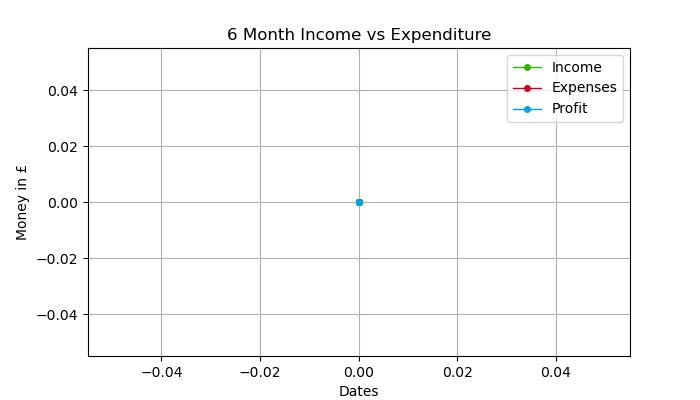
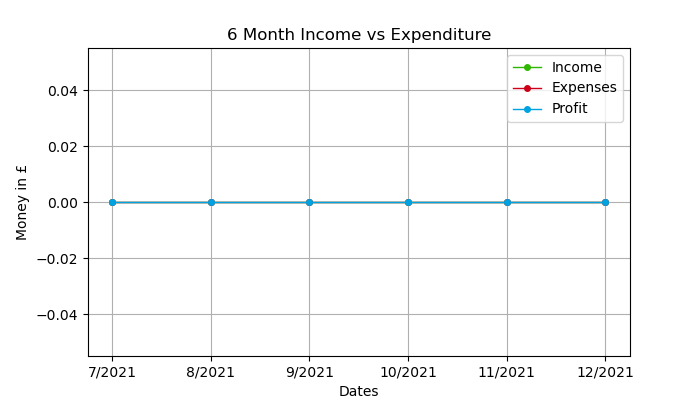
fiexed home page again

Changed region(s): [[0.12, 0.9, 0.9, 0.96], [0.15, 0.48, 0.87, 0.51]]

diff --git a/main.py b/main.py
@@ -1033,17 +1033,19 @@ def homePage():
         dictOfDates[key] = 0
     orderedListOfListedDates = orderListOfListedDates(listOfListedDates)
     openDatabase()
-    howManyUnitsMonths = 0 
+    howManyUnits = 0 
+    unitMonths = 0
     for i in range(len(unitsInfo)):
-        howManyUnitsMonths = howManyUnitsMonths + 1
+        howManyUnits = howManyUnits + 1
         scrambledUnitID = unitsInfo[i][0]
         unit_MonthlyInfo = cursor.execute("SELECT year, month FROM units_Monthly WHERE unit_ID = '" + scrambledUnitID + "'").fetchall()
         for x in range(len(orderedListOfListedDates)):
+            unitMonths = unitMonths + 1
             susValue = cursor.execute("SELECT suspected_Property_Value FROM units_Monthly WHERE unit_ID = '" + scrambledUnitID + "' AND year = '" + scramble(orderedListOfListedDates[i][1]) + "' AND month = '" + scramble(orderedListOfListedDates[i][0]) + "'").fetchall()
             if len(susValue) != 0:
                 dictOfDates[(orderedListOfListedDates[x][0] + "/" + orderedListOfListedDates[x][1])] = dictOfDates[(orderedListOfListedDates[x][0] + "/" + orderedListOfListedDates[x][1])] + susValue[0][0]
     closeDatabase()
-    if howManyUnitsMonths != 0:
+    if howManyUnits != 0 and unitMonths != 0:
         firstMonth = orderedListOfListedDates[0][0] + "/" +  orderedListOfListedDates[0][1]
         lastMonth = orderedListOfListedDates[len(orderedListOfListedDates) - 1][0] + "/" +  orderedListOfListedDates[len(orderedListOfListedDates) - 1][1]
         yValuesSuspropertyValues = list(dictOfDates.values())
@@ -1626,6 +1628,7 @@ def propertiesPage():
     meanIncome = 0
     meanExpenses = 0
     meanProfit = 0
+    meanProfitMargin = 0
 
     openDatabase()
 
@@ -2022,7 +2025,7 @@ def tenantsPage():
     primarytenantCount = 0
     totalTenantCount = 0
     totalScore = 0
-    averageScore = 'N/A'
+    averageScore = 0
     totalRent = 0
     occupyingPrimaryTenants = 0
     occupyingTotalTenants = 0
@@ -3629,6 +3632,7 @@ def monthlyAdditionsPage(unitID):
     openDatabase()
     unitInfoDataD = cursor.execute("SELECT month, year FROM units_Monthly WHERE unit_ID = '" + scramble(current_unit_ID) + "'")
     unitInfoData = unitInfoDataD.fetchall()
+    print(unitInfoData)
     month, year = returnMostRecentMonth(unitInfoData)
     month, year = str(month), str(year)    
     unitInfoDataD = cursor.execute("SELECT suspected_Property_Value FROM units_Monthly WHERE unit_ID = '" + scramble(current_unit_ID) + "' AND month = '" + scramble(month) + "' AND year = '" + scramble(year) + "'")
